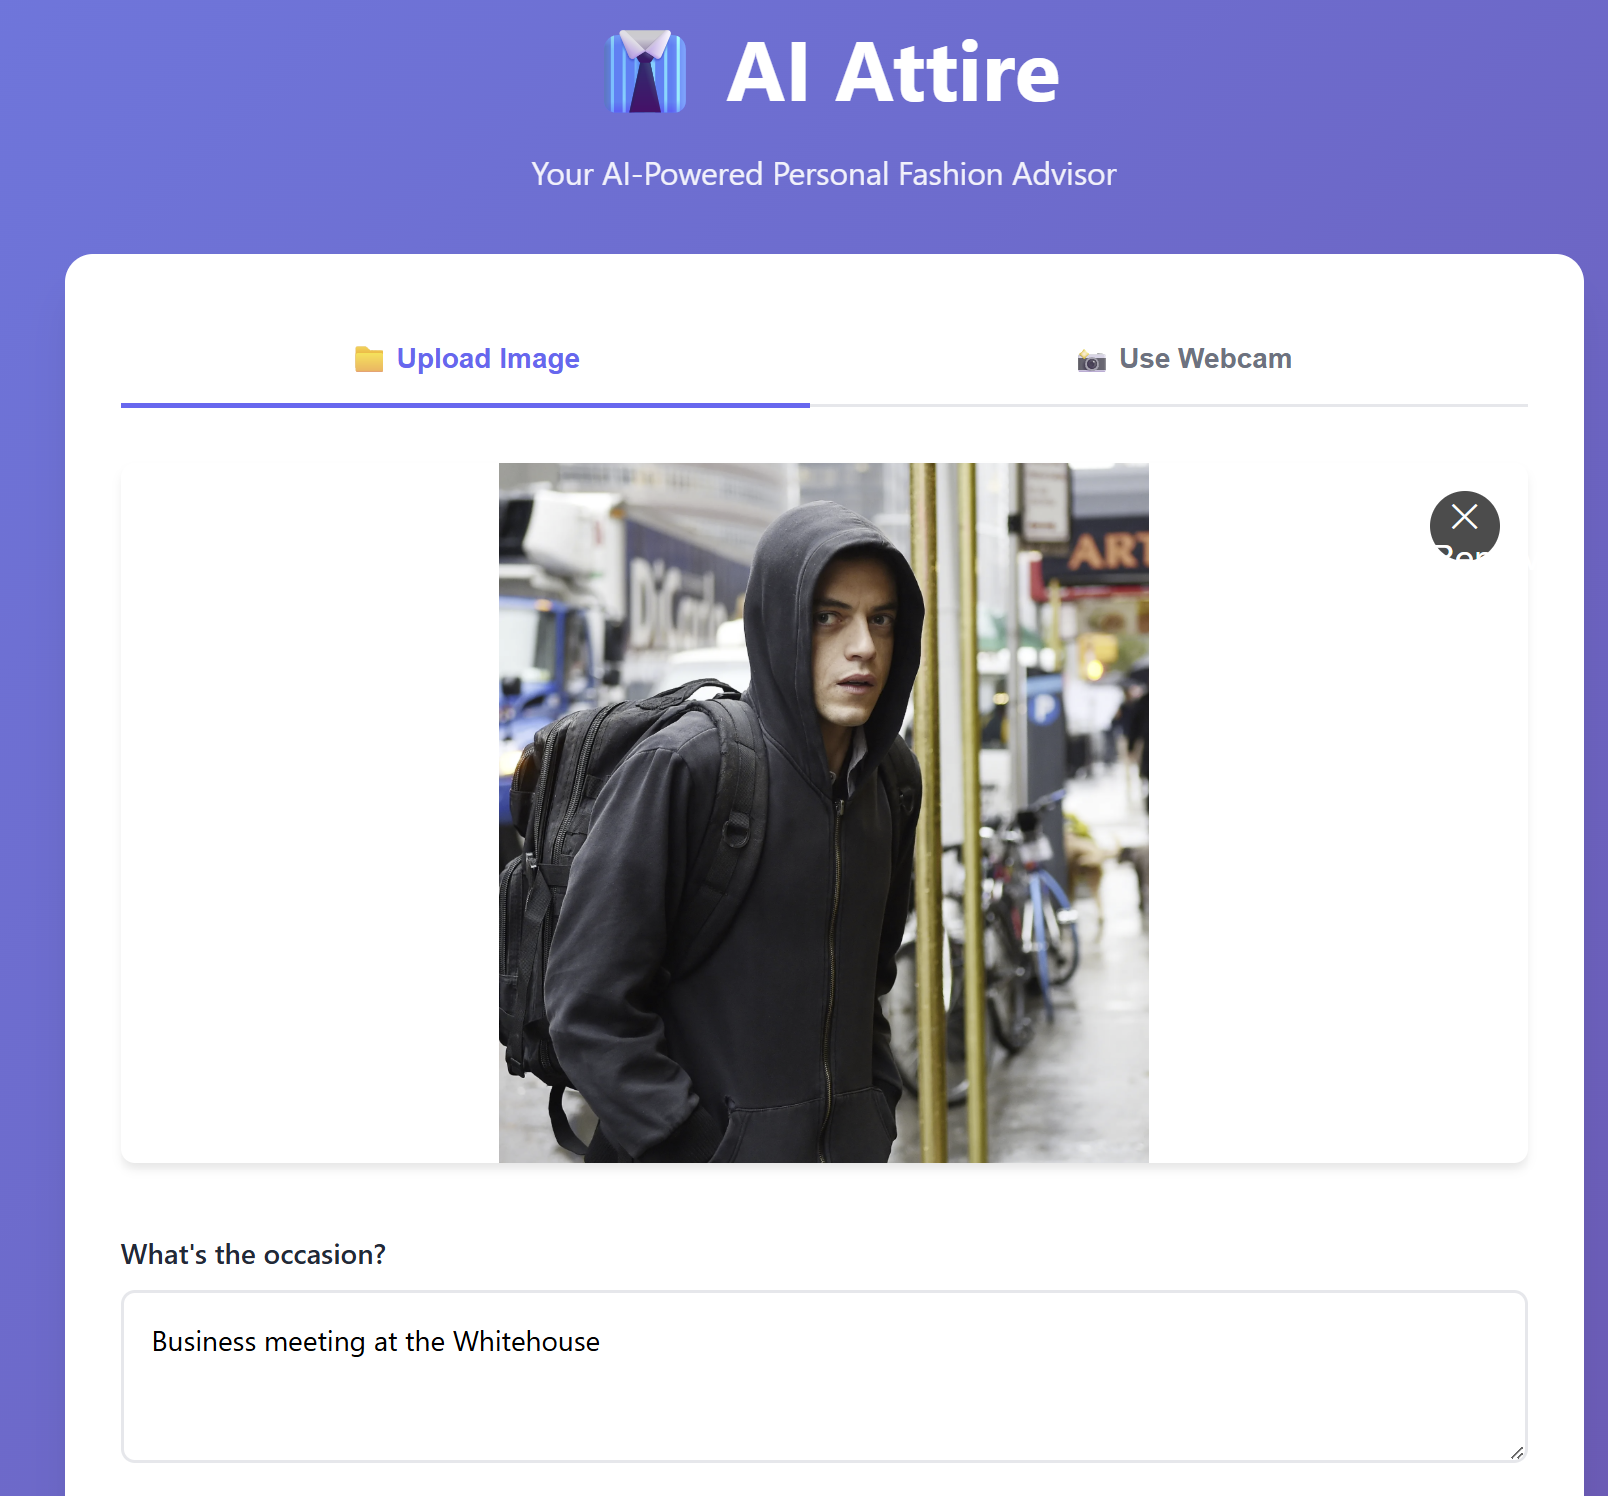
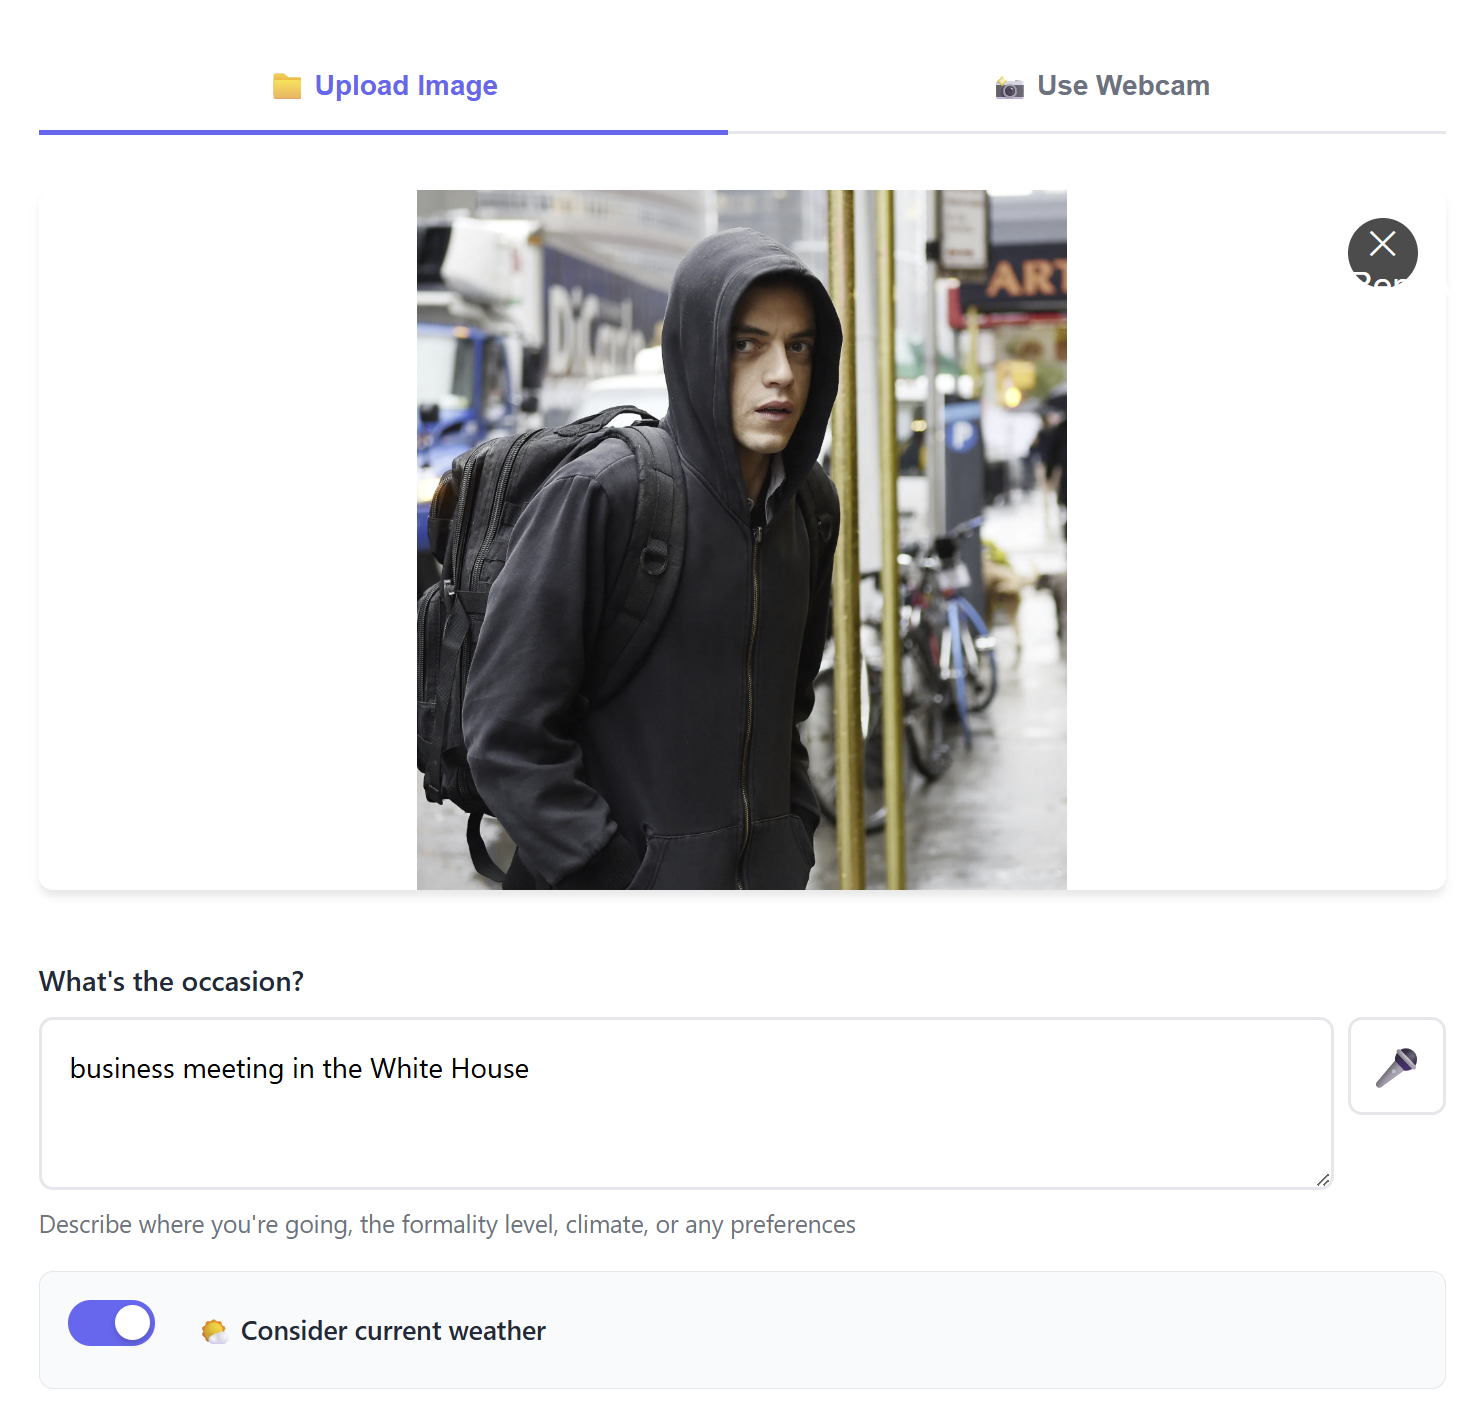
update doc

diff --git a/CHANGELOG.md b/CHANGELOG.md
@@ -262,6 +262,31 @@ Phase 3 (3:00-4:00): Integration
 
 ---
 
+### Weather Toggle Feature - Complete ✅
+
+**Status**: ✅ Complete
+
+- **What was done**: Added weather-aware outfit recommendations with optional toggle. Implemented location-based weather integration, refactored location normalization to remove hardcoded mappings, and fixed UI layout for the weather toggle button. Users can now opt-in to include real-time weather in their outfit recommendations.
+- **Tested**: Yes - All existing tests still passing (128+)
+- **Files changed**:
+  - `public/index.html` (added weather toggle checkbox with improved layout)
+  - `public/styles.css` (enhanced weather toggle styling with proper flex layout, improved spacing, and button/text separation)
+  - `public/app.js` (integrated weather toggle state with API requests)
+  - Location normalization logic (removed hardcoded mappings for better flexibility)
+- **Key improvements**:
+  - Weather toggle positioned clearly with improved visual separation from label text
+  - Flexible gap spacing (1.5rem) between toggle button and description
+  - Proper flex-shrink constraints prevent button from being squeezed
+  - Clean vertical alignment with consistent line-height
+  - Better user experience with intuitive UI layout
+- **UI Fixes**:
+  - Fixed toggle button and text interference issues
+  - Improved visual hierarchy and spacing
+  - Responsive layout that works on all screen sizes
+- **Time taken**: 25 minutes
+
+---
+
 ## Notes for Future Claude Instances
 
 - **Estimated total time**: 4 hours for complete implementation

diff --git a/README.md b/README.md
@@ -18,6 +18,7 @@
 - 🎯 **AI-Powered** - Leverages Claude's vision and language models for intelligent fashion advice
 - 🎤 **Speech-to-Text** - Free voice input using Web Speech API (no additional APIs required)
 - 🌍 **Cultural Intelligence** - Location-specific recommendations and etiquette tips
+- 🌤 **Weather-Aware** - Optional real-time weather consideration for outfit recommendations
 - 💻 **Full-Stack** - Modern backend API (Express.js) + responsive web UI
 - ⚡ **Production Ready** - Comprehensive error handling, input validation, rate limiting support
 
@@ -253,6 +254,8 @@ npm run clean        # Remove build artifacts
 - ✅ Modern, responsive web UI with gradient design
 - ✅ **File Upload Mode** - Browse and select wardrobe images with drag-and-drop support
 - ✅ **Webcam Capture Mode** - Live photo capture directly from device camera
+- ✅ **Weather Toggle** - Optional real-time weather consideration for recommendations
+- ✅ **Speech-to-Text Input** - Voice description of occasions using Web Speech API
 - ✅ Real-time recommendation display with formatted results
 - ✅ Cultural tips and shopping suggestions display
 - ✅ Error handling and loading states for smooth UX
